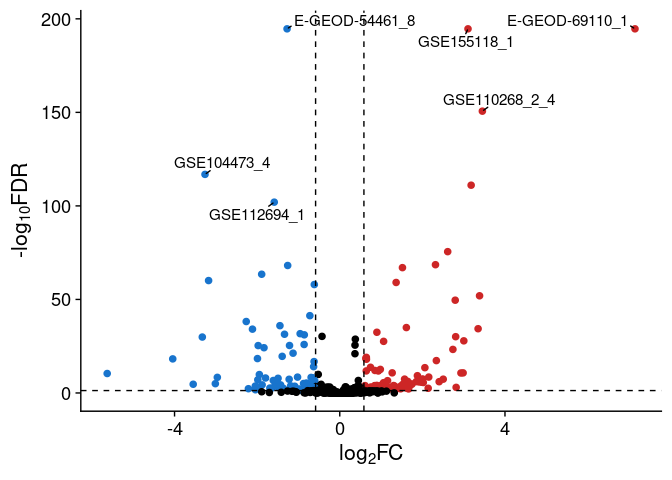
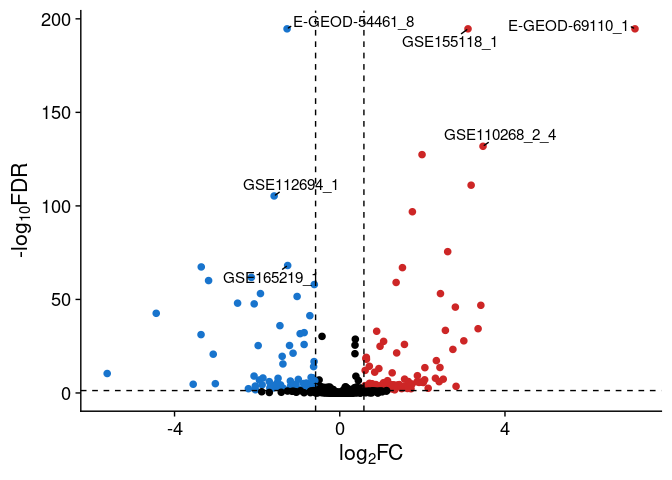
update data and data update checks

diff --git a/README.md b/README.md
@@ -27,7 +27,7 @@ You can install the release version of SkeletalVis from CRAN:
     install.packages("SkeletalVis")
 
 You can install the development version of SkeletalVis from
-[GitHub](https://github.com/) with:
+[GitHub](https://github.com/soulj/SkeletalVis) with:
 
 ``` r
 # install.packages("pak")
@@ -46,23 +46,22 @@ library(SkeletalVis)
 
 # Set up the database
 skeletalvis <- load_skeletalvis()
-#> All files are already present in /home/njs289/.local/share/R/SkeletalVis
+#> All files are already present
 
 # Get the differential expression of the gene SOX9 across the database
 gene_results <- get_gene_fold_changes(skeletalvis, "SOX9", return_fdr = TRUE)
 head(gene_results)
-#> # A tibble: 6 × 16
+#> # A tibble: 6 × 15
 #>   datasetID log2FoldChange       FDR Gene  accession comparisonsText Description
 #>   <chr>              <dbl>     <dbl> <chr> <chr>     <chr>           <chr>      
-#> 1 E-GEOD-6…           7.15 0         SOX9  E-GEOD-6… SOX9vseGFP      SOX9 overe…
-#> 2 GSE15511…           3.11 0         SOX9  GSE155118 Sox5_6_9_OEvsc… Primary ch…
-#> 3 E-GEOD-5…          -1.28 2.25e-195 SOX9  E-GEOD-5… Day18vsDay2     Temporal g…
-#> 4 GSE11026…           3.45 2.28e-151 SOX9  GSE11026… YAP KO_MSCvsWT… YAP1 and T…
-#> 5 GSE10447…          -3.26 1.41e-117 SOX9  GSE104473 Mandibular Dis… Mouse mand…
-#> 6 GSE12516…           3.18 8.58e-112 SOX9  GSE125167 PLZF_10_days_d… PLZF knock…
-#> # ℹ 9 more variables: PMID <chr>, Species <chr>, Tissue <chr>, ExpType <chr>,
-#> #   Perturbation <chr>, Effect <chr>, Type <chr>, foldChangeOnly <lgl>,
-#> #   platform <chr>
+#> 1 E-GEOD-6…           7.15 0         SOX9  E-GEOD-6… SOX9vseGFP      "SOX9 over…
+#> 2 GSE15511…           3.11 0         SOX9  GSE155118 Sox5_6_9_OEvsc… "Primary c…
+#> 3 E-GEOD-5…          -1.28 2.25e-195 SOX9  E-GEOD-5… Day18vsDay2     "Temporal …
+#> 4 GSE11026…           3.47 1.37e-132 SOX9  GSE11026… YAP KO_MSCvsWT… "YAP1 and …
+#> 5 GSE12103…           1.99 3.92e-128 SOX9  GSE121033 Lentiviruses e… "Polycomb …
+#> 6 GSE12516…           3.18 8.58e-112 SOX9  GSE125167 PLZF_10_days_d… "PLZF knoc…
+#> # ℹ 8 more variables: PMID <chr>, Species <chr>, Tissue <chr>, ExpType <chr>,
+#> #   Perturbation <chr>, Effect <chr>, Type <chr>, platform <chr>
 ```
 
 There are also several built in plotting functions:

diff --git a/NEWS.md b/NEWS.md
@@ -1,3 +1,8 @@
+# SkeletalVis 0.1.1
+
+* Added option to update SkeletalVis data
+* Updated linked SkeletalVis data files
+
 # SkeletalVis 0.1.0
 
 * Initial CRAN submission.

diff --git a/cran-comments.md b/cran-comments.md
@@ -2,4 +2,4 @@
 
 0 errors | 0 warnings | 0 note
 
-* This is a new release.
+## No reverse dependencies
